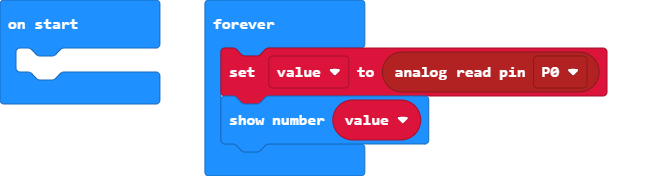
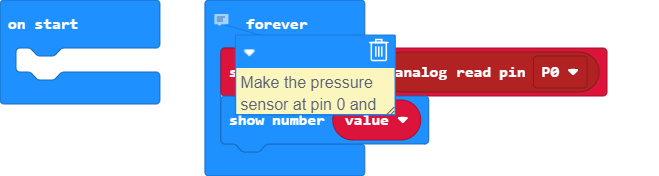
Update main.blocks, main.ts

Changed region(s): [[0.3338, 0.1705, 0.607, 0.6818], [0.3035, 0.0852, 0.4856, 0.1989]]

diff --git a/main.ts b/main.ts
@@ -1,4 +1,5 @@
 let value = 0
+// Make the pressure sensor at pin 0 and show how much pressure is on it.
 basic.forever(function () {
     value = pins.analogReadPin(AnalogPin.P0)
     basic.showNumber(value)
